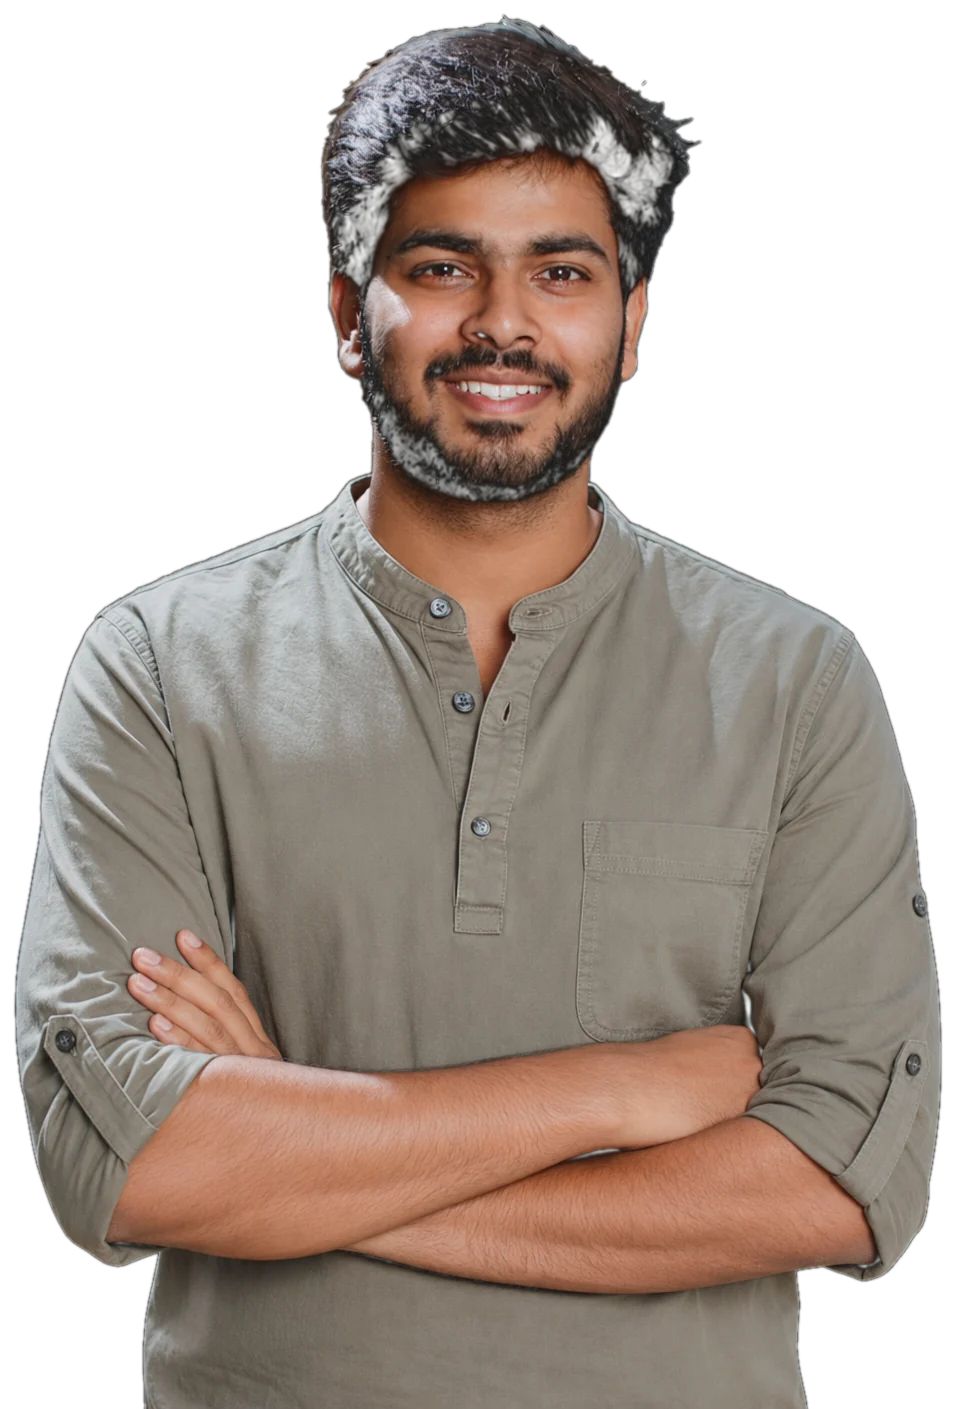
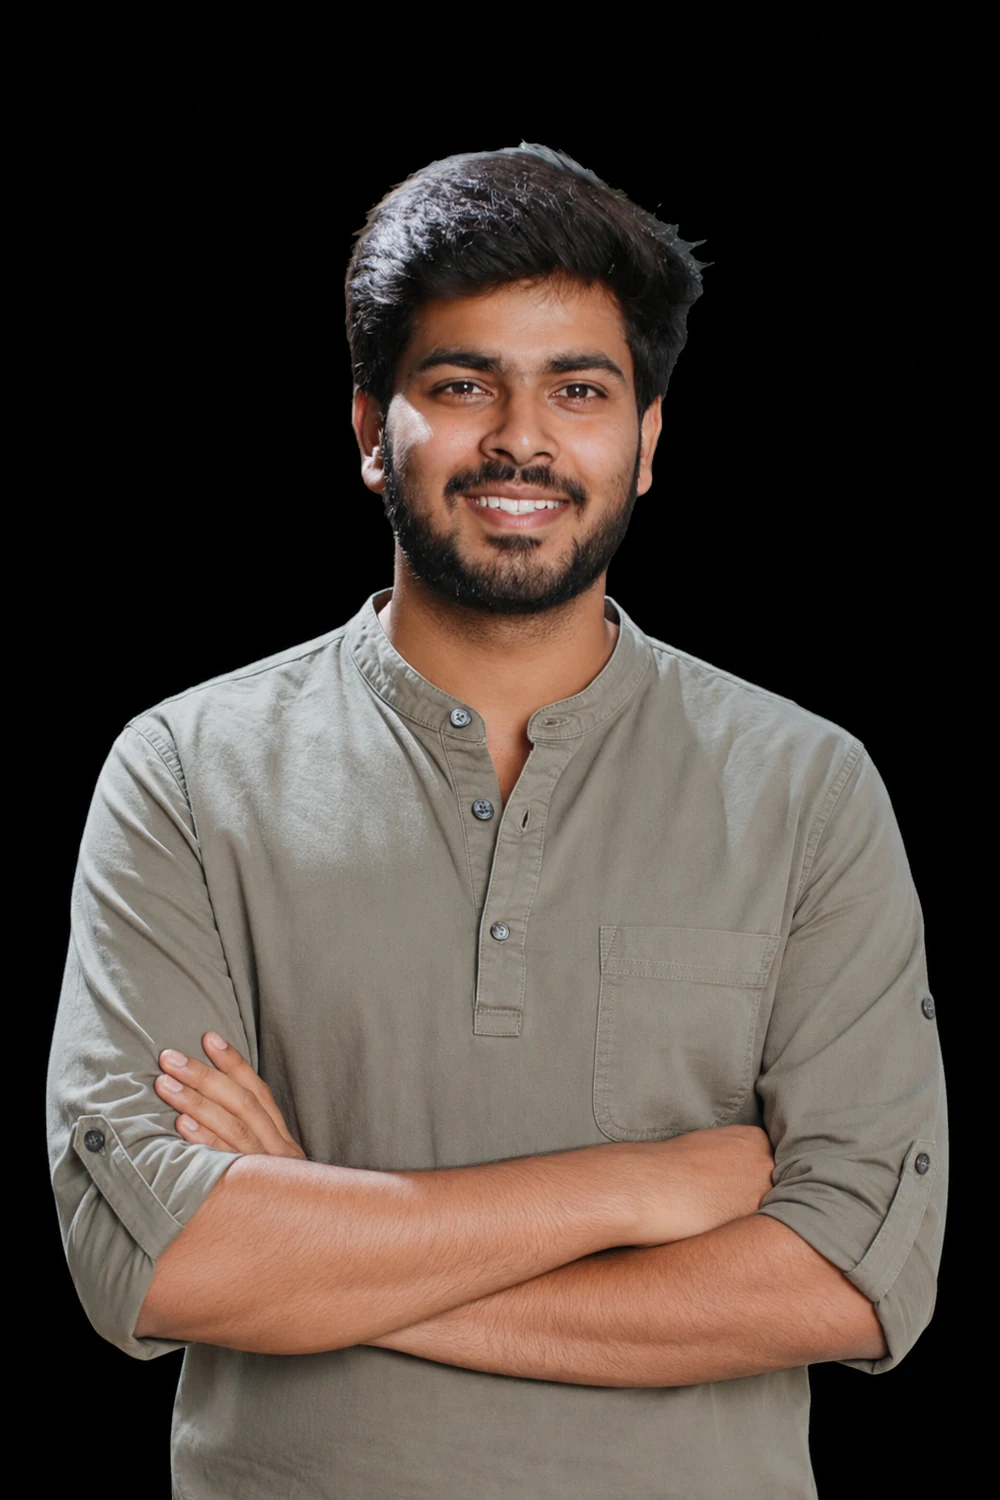
Use hero photo as-is (faithful, rounded corners, no fade)

diff --git a/assets/css/style.css b/assets/css/style.css
@@ -294,11 +294,11 @@ body::after {
   70%, 100% { transform: scale(1.5); opacity: 0; }
 }
 
-/* hero portrait (transparent cutout, no panel, blends into page) */
+/* hero portrait (faithful photo, edges feathered into the page, no box) */
 .hero-portrait {
   position: relative;
   align-self: stretch;
-  min-height: 440px;
+  min-height: 460px;
   display: flex;
   justify-content: center;
   align-items: flex-end;
@@ -307,17 +307,14 @@ body::after {
   height: 100%;
   width: auto;
   max-width: 100%;
-  object-fit: contain;
-  object-position: bottom center;
-  filter: drop-shadow(0 16px 36px rgba(0, 0, 0, 0.28));
+  border-radius: var(--radius-lg);
 }
-[data-theme="dark"] .hero-portrait img { filter: none; }
 
 @media (max-width: 820px) {
   .hero .wrap { grid-template-columns: 1fr; gap: 28px; }
   .hero-inner { order: 1; }
   .hero-portrait { order: 2; min-height: 0; }
-  .hero-portrait img { max-height: 460px; }
+  .hero-portrait img { max-height: 480px; }
 }
 
 /* ---------- sections ---------- */

diff --git a/index.html b/index.html
@@ -103,7 +103,7 @@
           <p class="hero-status"><span class="status-dot"></span> Taking new work · replies within 24 hours</p>
         </div>
         <div class="hero-portrait reveal">
-          <img src="/assets/img/cv-hero.webp" alt="Chaitanya Vaddi, software engineer" width="956" height="1409" fetchpriority="high">
+          <img src="/assets/img/cv-hero.webp" alt="Chaitanya Vaddi, software engineer" width="1000" height="1500" fetchpriority="high">
         </div>
       </div>
     </section>